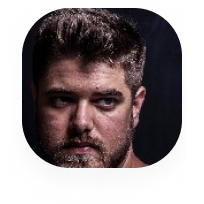
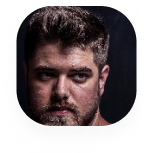
fix - adjusting assets

diff --git a/src/components/TablesWrapper/Table.module.sass b/src/components/TablesWrapper/Table.module.sass
@@ -29,7 +29,7 @@
         width: 1rem
 
     img[data-imagewidth='Author']
-        width: 4rem
+        width: 3.5rem
 
 .cellTextBox
     @include flexCenter
@@ -42,8 +42,6 @@
     padding: 0.5rem
     border-radius: 15px
     width: 3rem
-
-
 
 :export 
     gray200: $gray200
